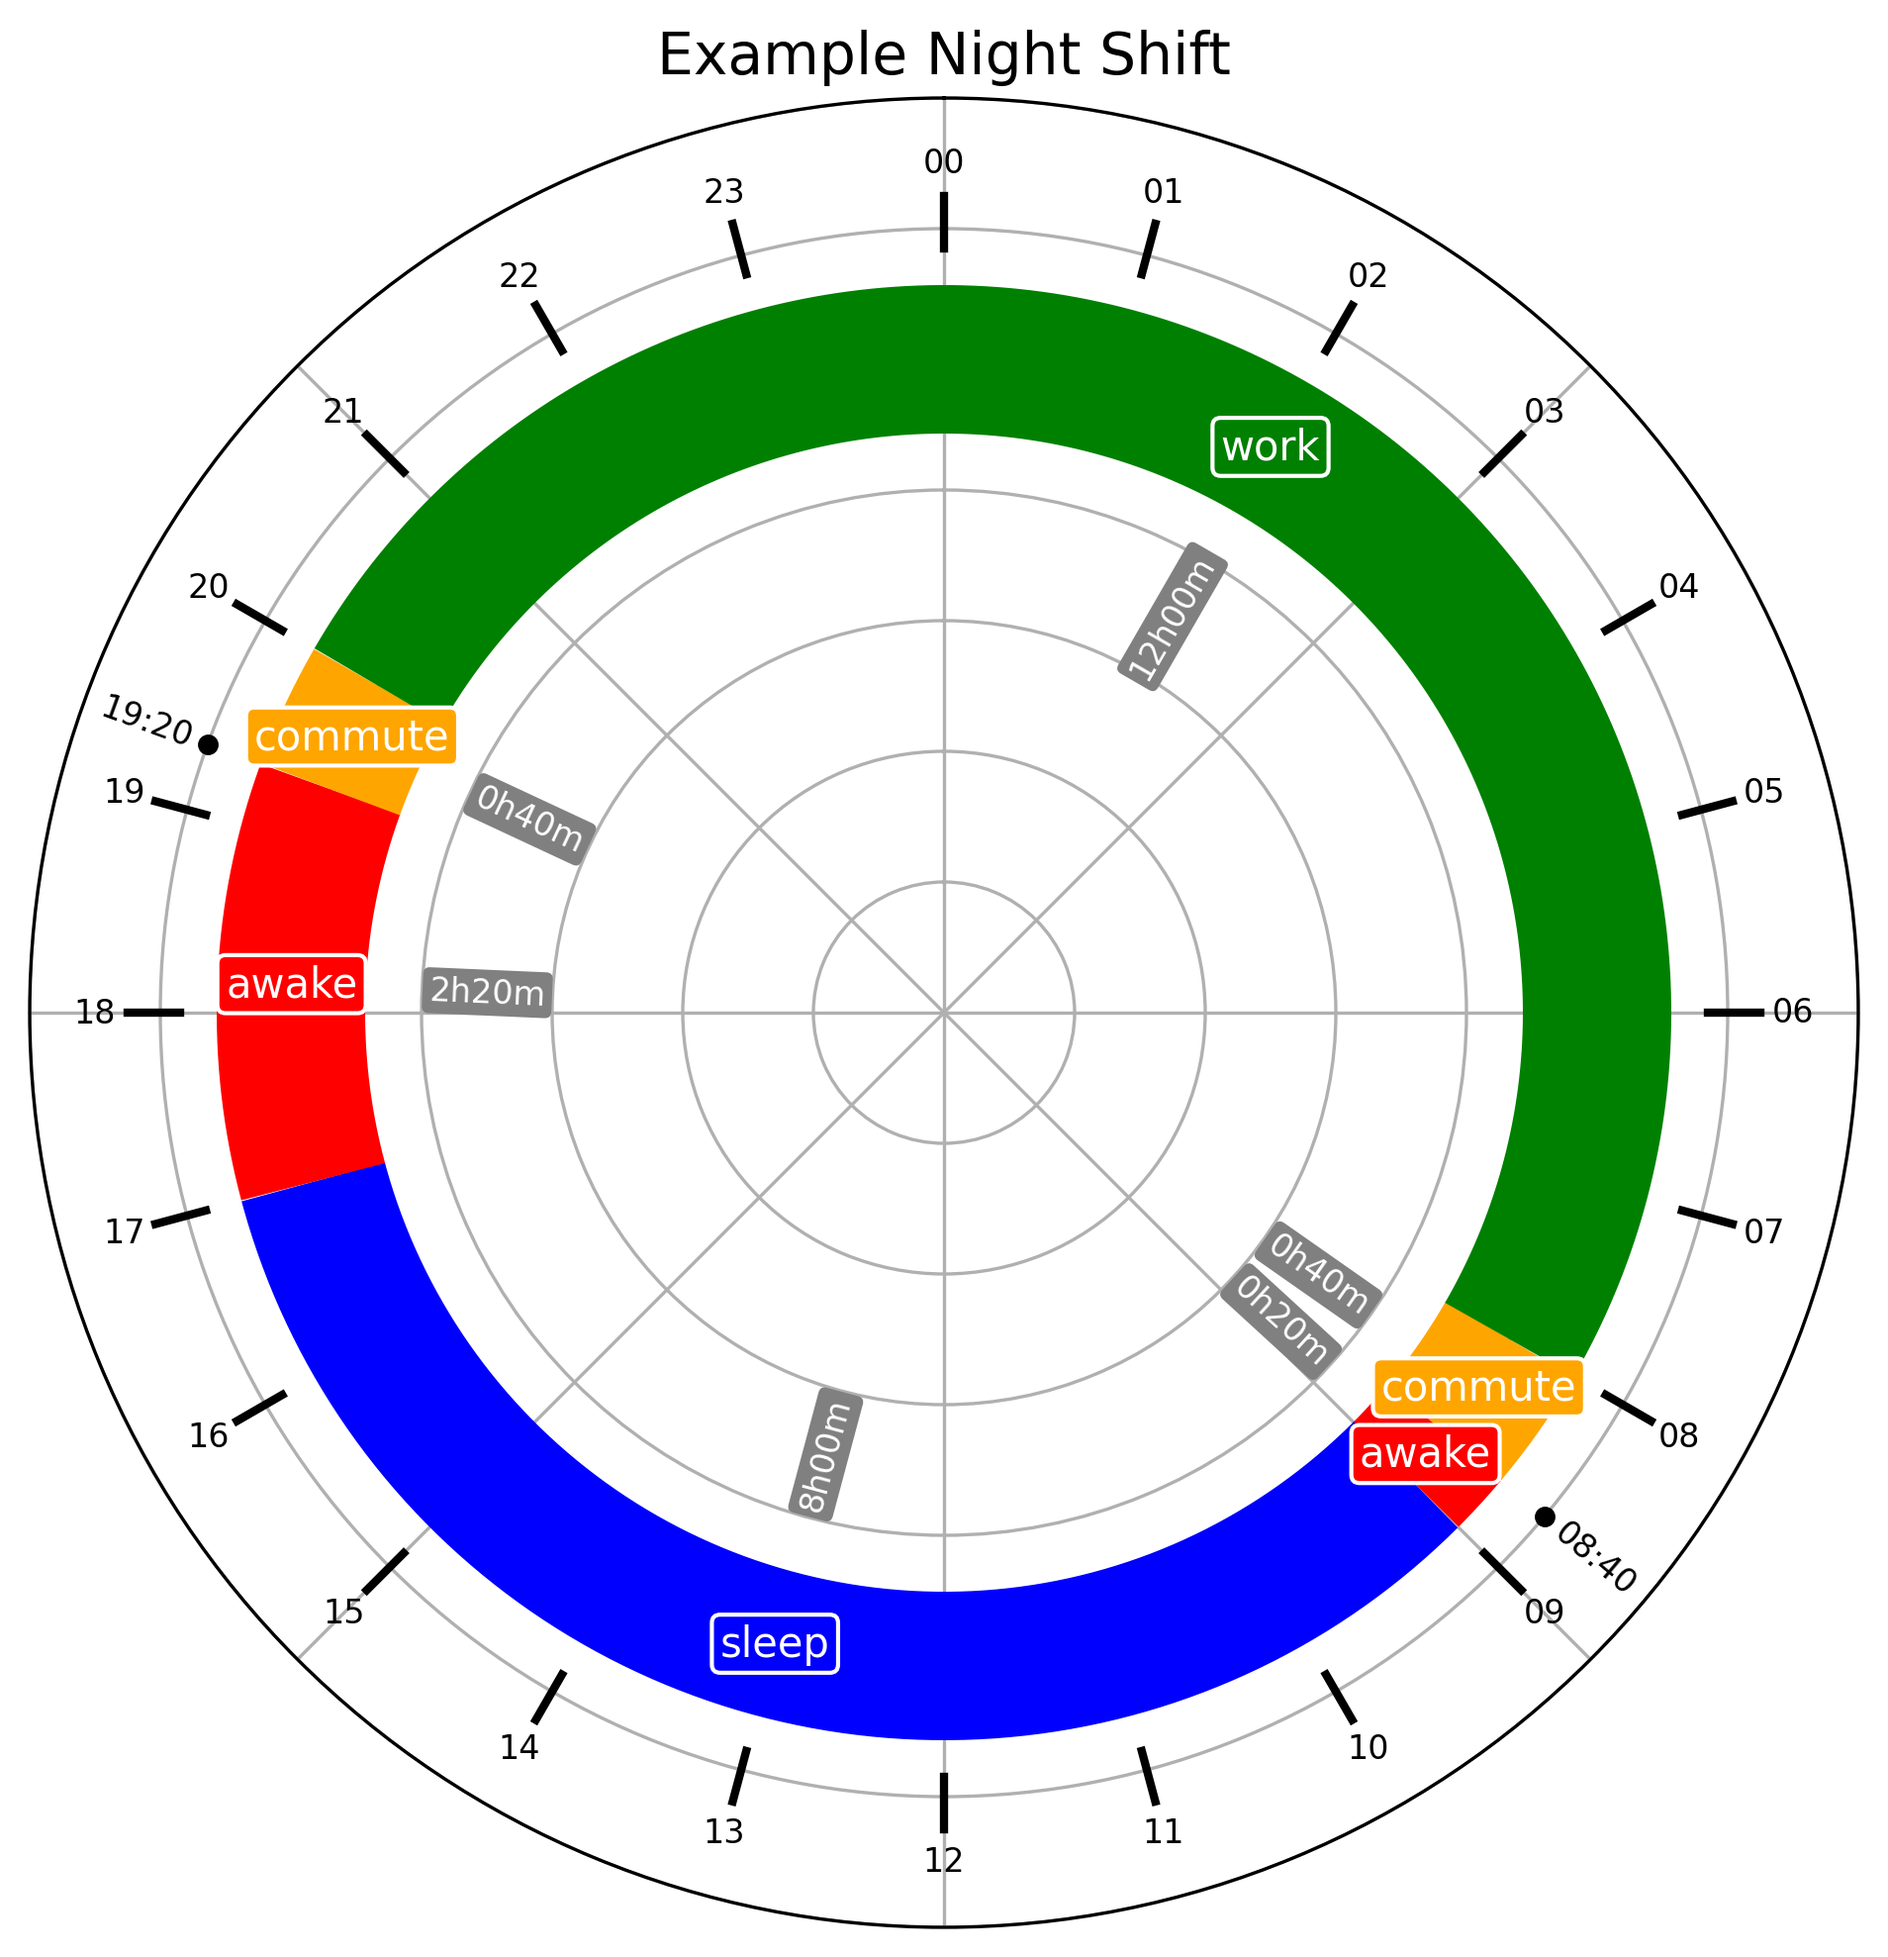
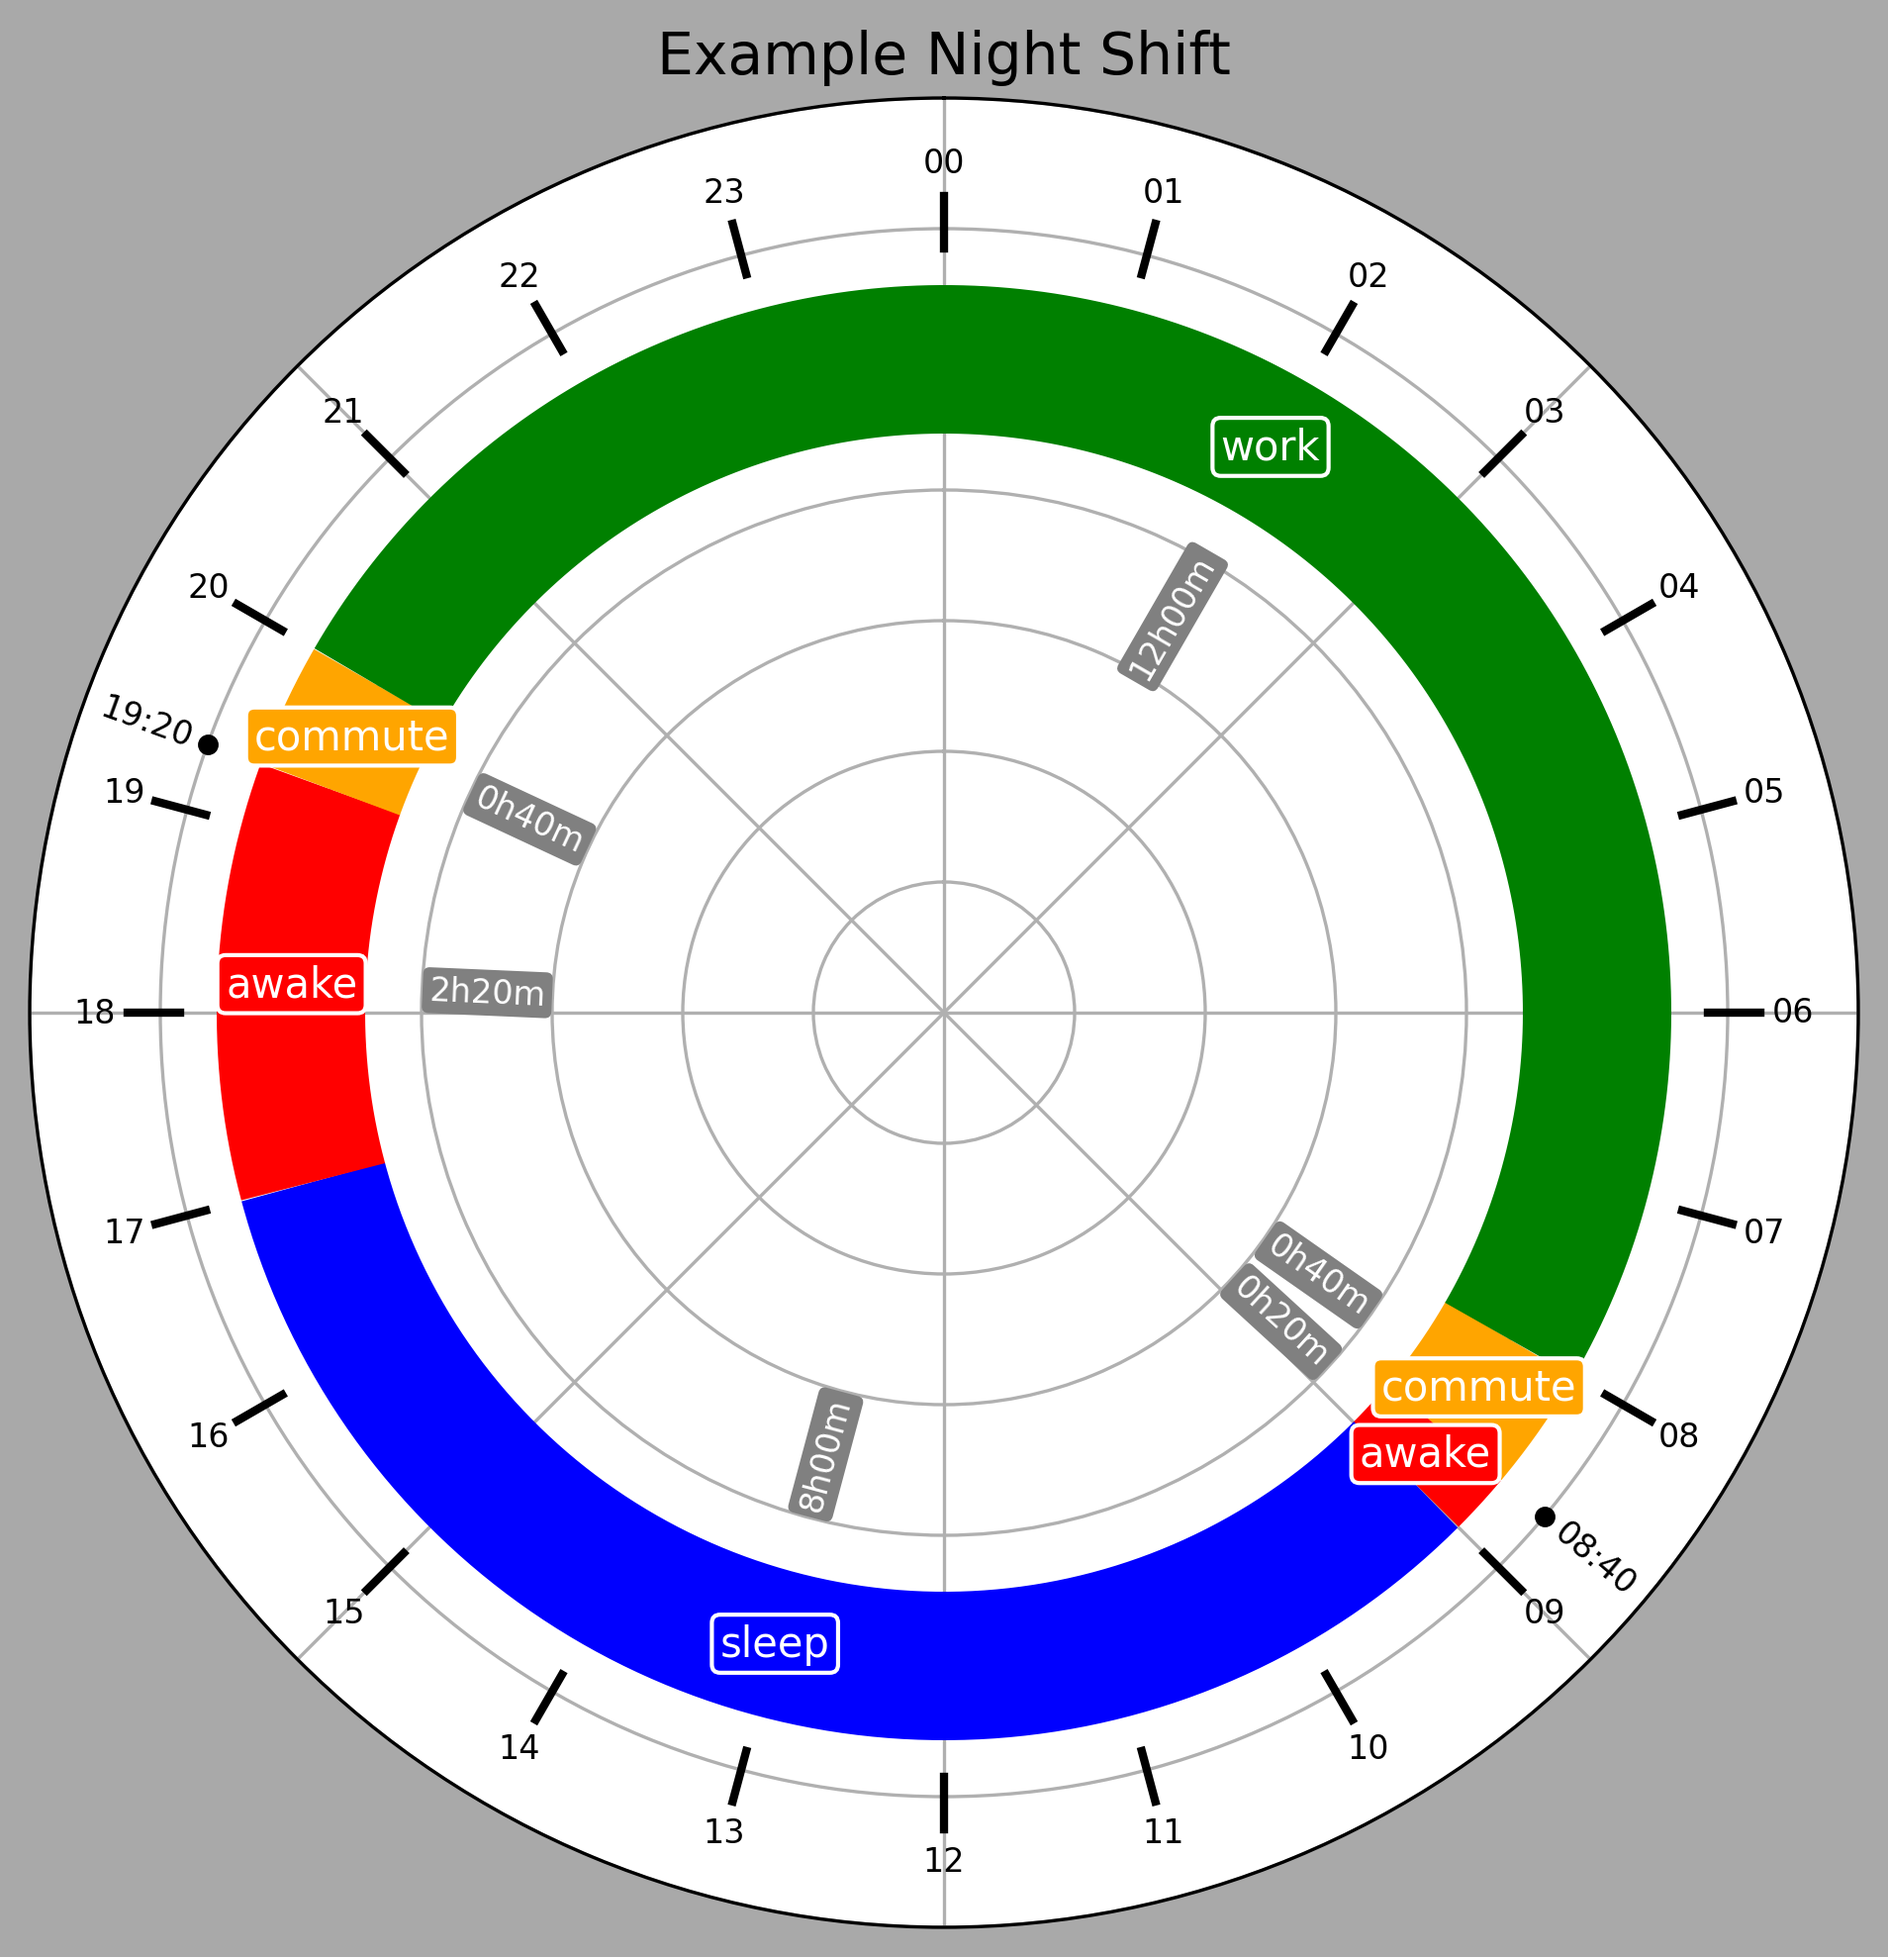
Comments, background, cleanup
Added general comments and a docstring
Added "n of n" printing
Minor streamlining

Changed region(s): [[0.0, 0.0, 1.0, 1.0]]

diff --git a/clock_plot.py b/clock_plot.py
@@ -38,6 +38,14 @@ def time_to_angle(time_str):
 
 
 def duration_str(interval):
+    """Convert two HHMM strings to the duration string of their difference
+
+    Args:
+        interval (_type_): JSON (dict) structure containing 'start' and 'end' keys
+
+    Returns:
+        str: String in the format "%d%dh%d%dm" (e.g. 2h50m, 11h00m)
+    """
     # Add duration labels in the middle of each interval (closer to the origin)
     # Extract hours and minutes from the "HHMM" format
     start_h, start_m = int(interval["start"][:2]), int(interval["start"][2:])
@@ -64,18 +72,17 @@ def duration_str(interval):
 # Create a clock plot from a given schedule
 def plot_schedule(schedule):
     # Create a polar plot with a larger figure
-    fig, ax = plt.subplots(subplot_kw={'projection': 'polar'}, figsize=(8, 8))
+    fig, ax = plt.subplots(subplot_kw={'projection': 'polar'}, figsize=(8, 8), facecolor='darkgrey')
 
     # Configure the polar plot:
     ax.set_theta_direction(-1)           # Clockwise
     ax.set_theta_offset(np.pi/2)         # 0 (midnight) at the top
     ax.set_xticklabels([])               # Remove degree (theta) axis labels
 
-    # Plot each interval as an arc with thick line (linewidth 36)
+    # Plot each interval as an arc with thick line
     arc_radius = 1
     arc_thickness = 36
     
-    # interval_angles = []
     for interval in schedule["intervals"]:
         start_angle = time_to_angle(interval["start"])
         end_angle = time_to_angle(interval["end"])
@@ -89,17 +96,18 @@ def plot_schedule(schedule):
         r = np.full_like(theta, arc_radius)
         ax.plot(theta, r, color=interval["color"], linewidth=arc_thickness, solid_capstyle='butt', label=interval["id"])
         
-        # Save the mid-angle for placing the ID label (mod 2pi to keep it in [0,2pi))
+        # Save the middle angle of interval (mod 2pi to keep it in [0,2pi))
         mid_angle = (start_angle + end_angle) / 2.0 % (2*np.pi)
         text_rot = (270 - np.degrees(mid_angle)) % 360
         if 90 <= text_rot <= 270:
             text_rot += 180  # Flip for the left half
             
-        # Add ID labels in the middle of each interval
+        # Add interval title labels
         ax.text(mid_angle, arc_radius, interval["id"], ha='center', va='center',
                 fontsize=10, color='white', 
                 bbox=dict(facecolor=interval["color"], edgecolor='white', boxstyle='round,pad=0.2'))
         
+        # Add duration labels
         ax.text(mid_angle, arc_radius - 0.30, duration_str(interval), ha='center', va='center',
                 fontsize=8, color='white', rotation=text_rot, 
                 bbox=dict(facecolor="grey", edgecolor='none', boxstyle='round,pad=0.2'))
@@ -118,48 +126,48 @@ def plot_schedule(schedule):
         if int(time_str[2:]) == 0:
             continue  # Skip; add hour ticks separately
         
+        # Rotate intersection labels to be parallel to the polar line
         angle = time_to_angle(time_str)
         text_rot = (270 - np.degrees(angle)) % 360
         if 90 <= text_rot <= 270:
             text_rot += 180  # Flip for the left half
         
         time_str = time_str[:2] + ':' + time_str[2:]
-        
         ax.plot(angle, intersection_radius + 0.05, marker='o', markersize=4, color='black', alpha=1)
         ax.text(angle, intersection_radius + 0.15, time_str, rotation=text_rot, ha='center', va='center',
                 fontsize=8, color="black",
                 bbox=dict(facecolor="none", edgecolor='none', boxstyle='round,pad=0.2'))
 
     # Add an hour tick and label for each hour (00 to 23)
-    # We'll draw a short radial line (tick) and label them at a slightly further radius.
+    # Draw a short radial line (tick) and label them at a slightly further radius.
     tick_inner = 1.17
     tick_outer = 1.25
     for hour in range(24):
         # Convert hour to angle using the "HHMM" format.
-        time_str = f"{hour:02d}00"
-        angle = time_to_angle(time_str)
+        angle = time_to_angle(f"{hour:02d}00")
         # Draw a tick line from tick_inner to tick_outer
         ax.plot([angle, angle], [tick_inner, tick_outer], color='black', lw=2)
         # Label the hour just outside the tick
         ax.text(angle, tick_outer + 0.05, f"{hour:02d}", ha='center', va='center', fontsize=8)
-    #     ax.text(angle, tick_outer, f"{hour:02d}", ha='center', va='bottom', fontsize=10)
 
     # Remove radial tick labels and set radius limits
     ax.set_yticklabels([])
     ax.set_ylim(0, 1.4)
     plt.title(schedule['title'], fontsize=14)
 
-    # Save the updated plot as a PNG file
+    # Save the updated plot as a PNG file in /images and reveal to the screen
     plt.savefig(f"images/{snake_case(schedule["title"])}.png", dpi=300, bbox_inches='tight')
-    plt.show()
+    print(f'"{schedule["title"]}" saved to /images.')
+    # plt.show()
 
 
 
 if __name__ == "__main__":
-    # open schedules file
+    # Open schedules file
     with open('schedules.json', 'r') as f:
         data = json.load(f)
 
+    # Select an individual plot if needed
     # data = data[0]
 
     # if only one plot selected, only plot one
@@ -169,5 +177,6 @@ if __name__ == "__main__":
         print('Plotting 1 of 1')
         plot_schedule(data)
     except TypeError:
-        for schedule in data:
-            plot_schedule(schedule)
+        for i in range(len(data)):
+            print(f'Plotting {i+1} of {len(data)}')
+            plot_schedule(data[i])
